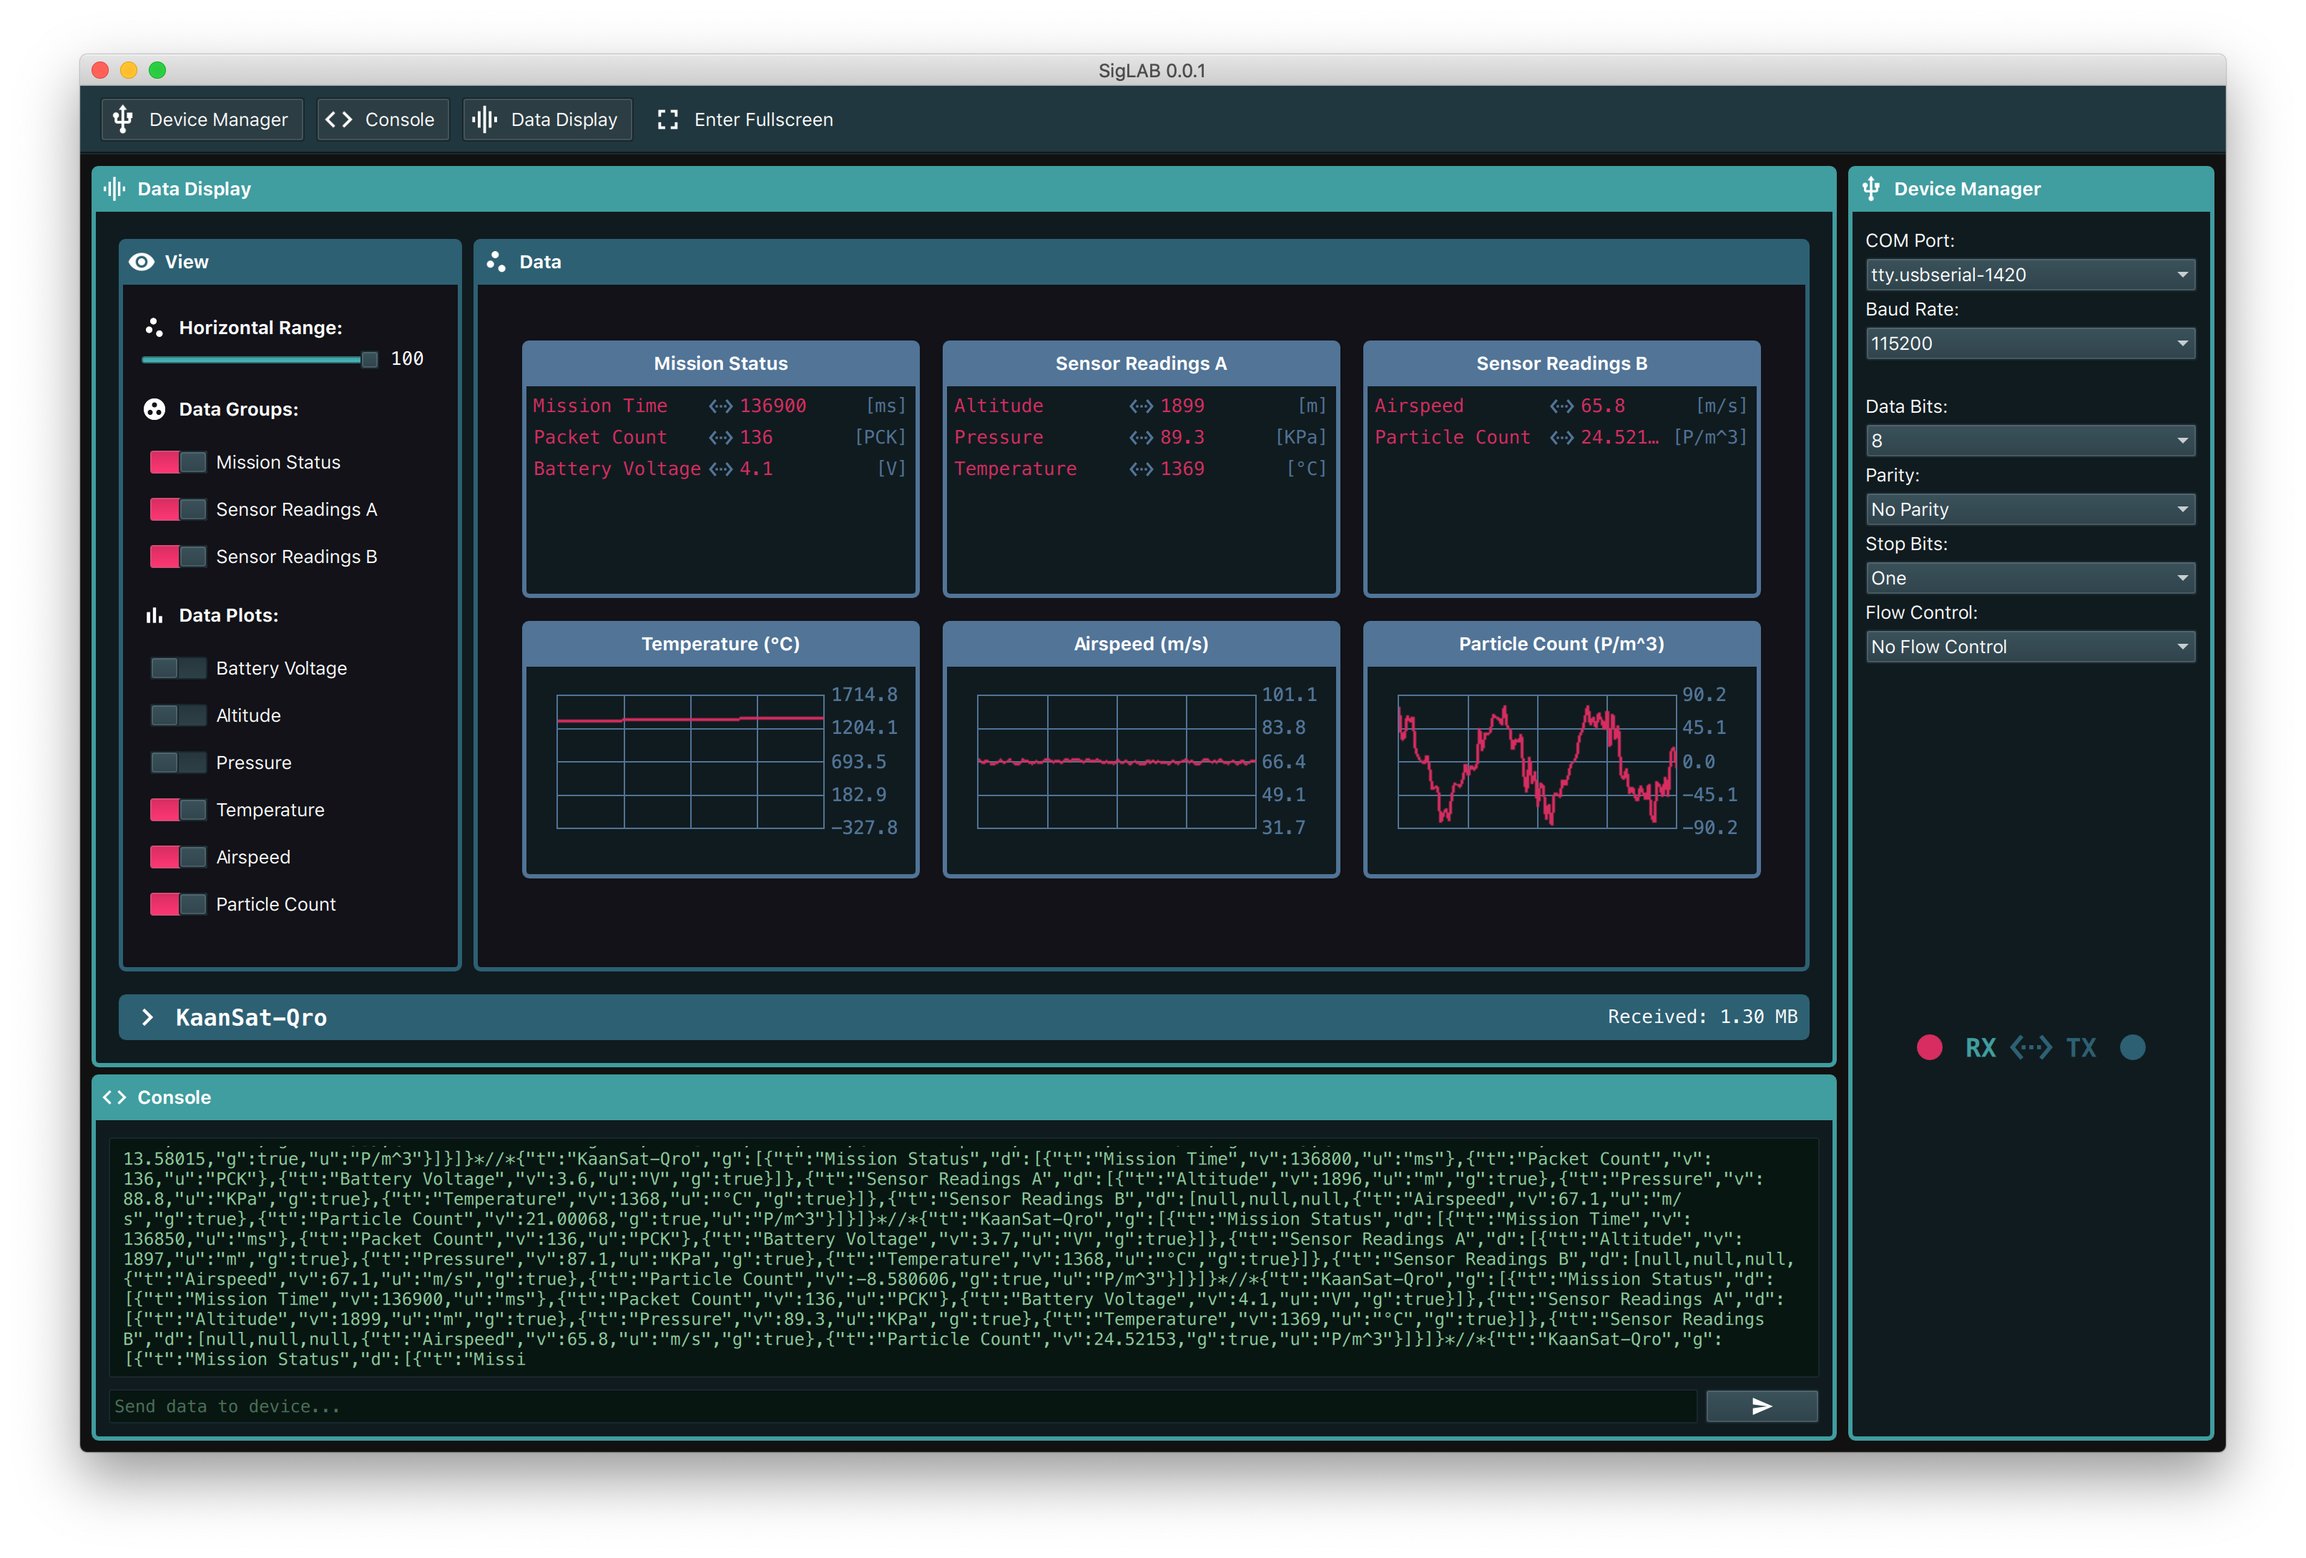
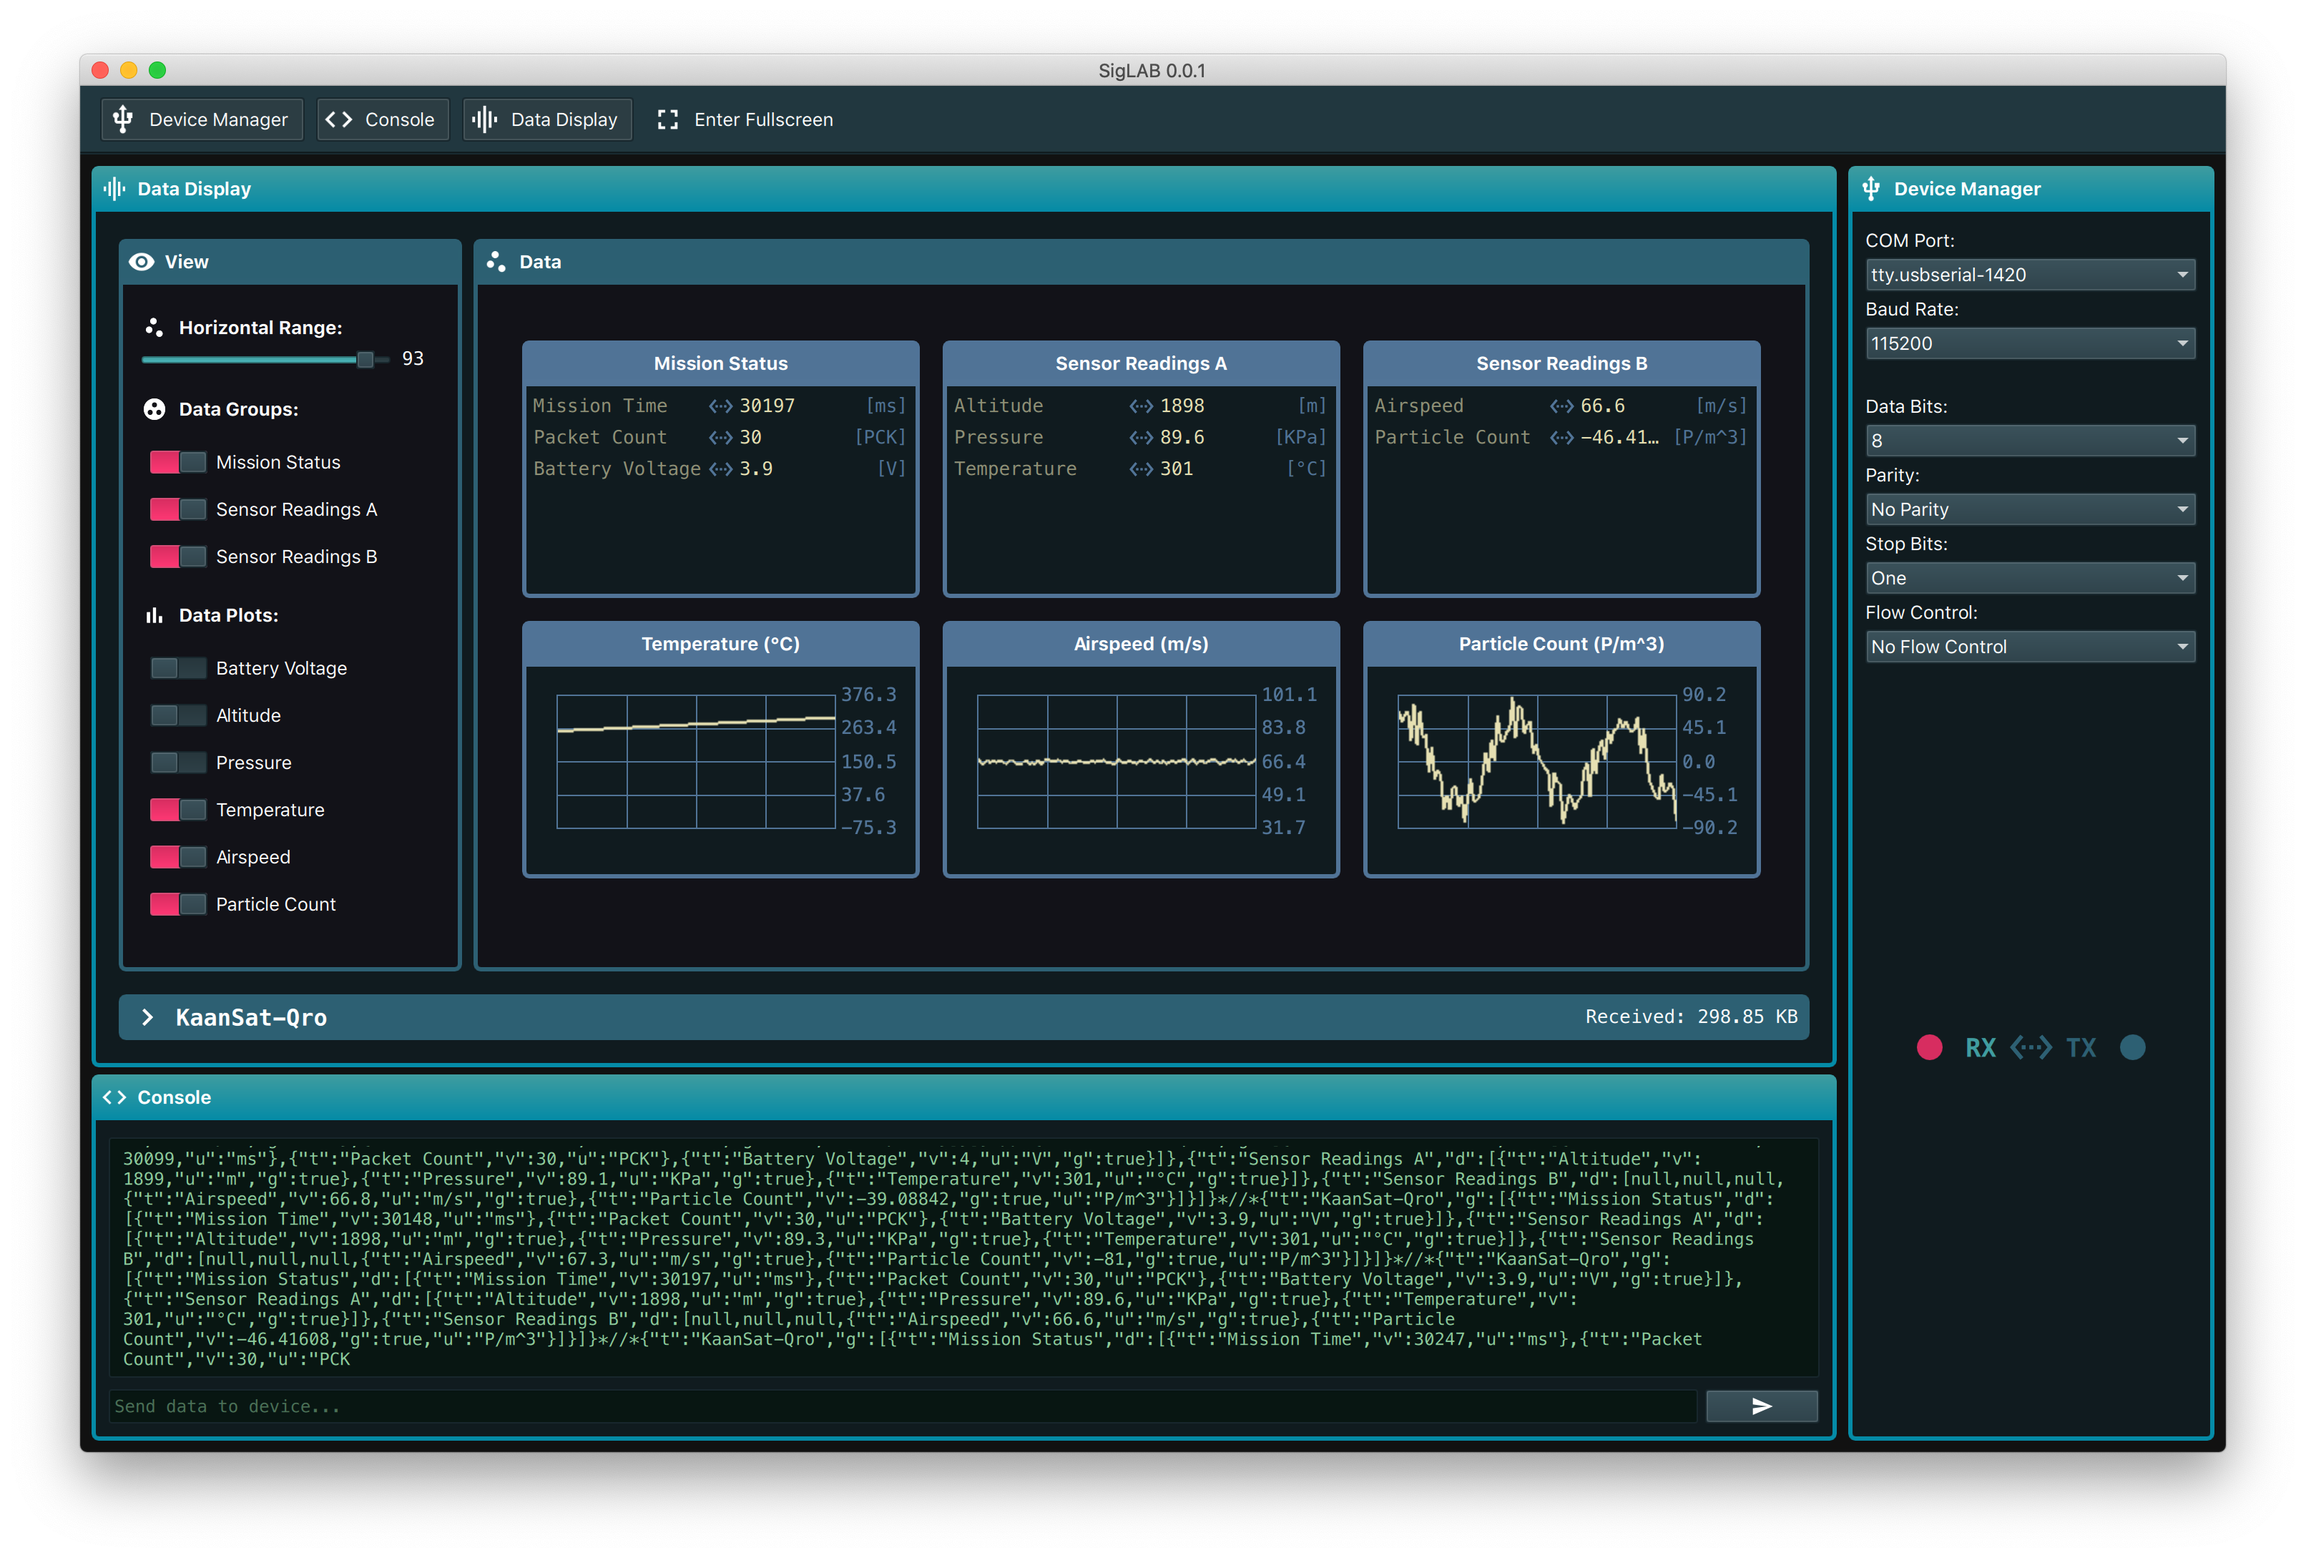
Misc UI changes

diff --git a/assets/qml/Widgets/Window.qml b/assets/qml/Widgets/Window.qml
@@ -34,6 +34,7 @@ Page {
     //
     property int borderWidth: 3
     property alias icon: _bt.icon
+    property bool gradient: false
     property alias showIcon: _bt.visible
     property color titleColor: palette.brightText
     property color borderColor: palette.highlight
@@ -58,7 +59,7 @@ Page {
     //
     background: Rectangle {
         color: window.backgroundColor
-        border.color: window.borderColor
+        border.color: gStop.color
         border.width: window.borderWidth
         radius: window.borderWidth + 2
     }
@@ -71,10 +72,23 @@ Page {
         color: window.borderColor
         radius: window.borderWidth + 2
 
+        gradient: Gradient {
+            GradientStop {
+                position: 0
+                color: window.borderColor
+            }
+
+            GradientStop {
+                id: gStop
+                position: 1
+                color: window.gradient ? Qt.rgba(5/255, 139/255, 167/255, 1) : window.borderColor
+            }
+        }
+
         Rectangle {
             z: 5
-            color: parent.color
-            height: parent.radius
+            color: gStop.color
+            height: window.gradient ? 1 : parent.radius
 
             anchors {
                 left: parent.left

diff --git a/assets/qml/UI.qml b/assets/qml/UI.qml
@@ -59,6 +59,7 @@ Page {
             //
             Widgets.Window {
                 id: dataDis
+                gradient: true
                 Layout.fillWidth: true
                 Layout.fillHeight: true
                 opacity: enabled ? 1 : 0
@@ -166,6 +167,7 @@ Page {
             //
             Components.Console {
                 id: consoleWindow
+                gradient: true
                 Layout.fillWidth: true
                 Layout.fillHeight: true
                 opacity: enabled ? 1 : 0
@@ -181,6 +183,7 @@ Page {
         //
         Components.DeviceManager {
             id: devMan
+            gradient: true
             Layout.fillHeight: true
             opacity: enabled ? 1 : 0
             enabled: toolbar.devicesChecked

diff --git a/assets/qml/Widgets/DataDelegate.qml b/assets/qml/Widgets/DataDelegate.qml
@@ -36,7 +36,7 @@ Item {
         elide: Label.ElideRight
         font.family: app.monoFont
         horizontalAlignment: Text.AlignLeft
-        color: Qt.rgba(215/255, 45/255, 96/255, 1)
+        color: Qt.rgba(230/255, 224/255, 178/255, 0.6)
 
         anchors {
             leftMargin: 0
@@ -70,7 +70,7 @@ Item {
         elide: Label.ElideRight
         font.family: app.monoFont
         horizontalAlignment: Text.AlignLeft
-        color: Qt.rgba(215/255, 45/255, 96/255, 1)
+        color: Qt.rgba(230/255, 224/255, 178/255, 1)
 
         anchors {
             left: center.right

diff --git a/assets/qml/Widgets/GraphDelegate.qml b/assets/qml/Widgets/GraphDelegate.qml
@@ -121,7 +121,7 @@ Window {
             useOpenGL: true
             capStyle: Qt.RoundCap
             axisYRight: positionAxis
-            color: Qt.rgba(215/255, 45/255, 96/255, 1)
+            color: Qt.rgba(230/255, 224/255, 178/255, 1)
         }
     }
 }
